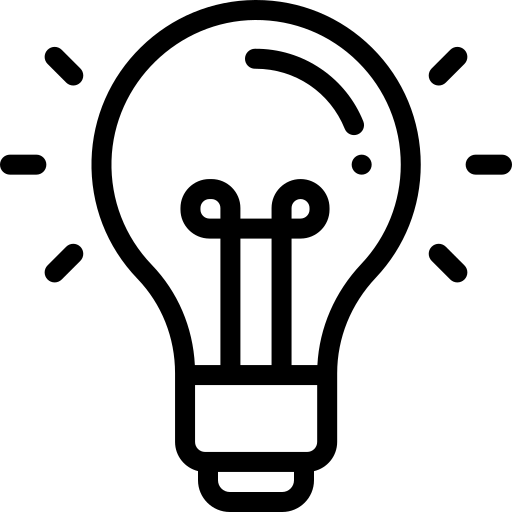
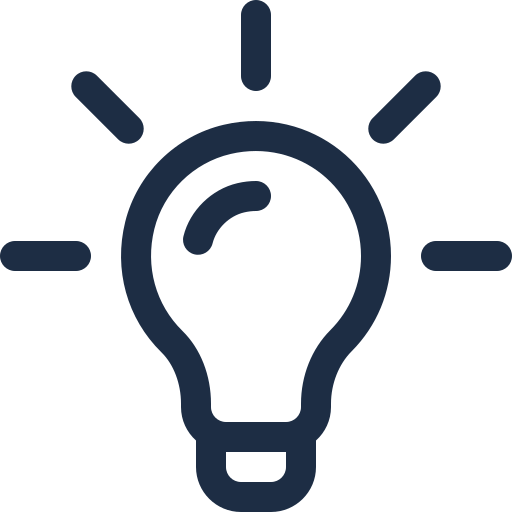
atualização

diff --git a/Dashboard/index.html b/Dashboard/index.html
@@ -15,18 +15,18 @@
     <div class="buttons1">
         <div class="buttons_up1">
             <button class="button-57" role="button"><span class="text"><a href="./Luzes/index.html"><img src="./idea.png" alt="" width="50"></span><span>Luzes</span></button>
-            <button class="button-57" role="button"><span class="text"><a href="./Portas/index.html">🚪</span><span>Portas</span></button>
+            <button class="button-57" role="button"><span class="text"><a href="./Portas/index.html"><img src="./door.png" alt="" width="50"></span><span>Portas</span></button>
         </div>
         <div class="buttons_up2">
-            <button class="button-57" role="button"><span class="text"><a href="./Eletroeletronicos/index.html">🔌</span><span>Eletroeletrônicos</span></button>
-            <button class="button-57" role="button"><span class="text"><a href="./Camera_seguranca/index.html">🎥</span><span>Câmeras</span></button>
+            <button class="button-57" role="button"><span class="text"><a href="./Eletroeletronicos/index.html"><img src="./plug.png" alt="" width="50"></span><span>Eletroeletrônicos</span></button>
+            <button class="button-57" role="button"><span class="text"><a href="./Camera_seguranca/index.html"><img src="./camera.png" alt="" width="50"></span><span>Câmeras</span></button>
         </div>
         
     </div>
 
     <div class="buttons_botton">
-        <button class="button-35" role="button"><a href="./Menu/index.html">Menu</button>
-        <button class="button-35" role="button"><a href="./comando_voz/index.html">Voice</button>
+        <button class="button-35" role="button"><a href="./Menu/index.html"><img src="./menu_icon.png" alt="" width="35"></button>
+        <button class="button-35" role="button"><a href="./comando_voz/index.html"><img src="./voice.png" alt="" width="35"></button>
         
     </div>
 </body>

diff --git a/Dashboard/style.css b/Dashboard/style.css
@@ -1,5 +1,9 @@
 body {
-    background-color: ;
+  background-image: url("./back_circle.png");
+  background-repeat: no-repeat;
+  background-position: center center;
+  margin-top: auto;
+  background-color: #748cab;
 }
 
 .nome_usuario,
@@ -7,10 +11,12 @@ body {
 .buttons_up2 {
     display: flex;
     justify-content: center;
+    font-family: Arial, Helvetica, sans-serif;
+    color: #F0EBD8;
 }
 
 .buttons1 {
-    background-color: black;
+    background-color: none;
     margin-top: 50px;
     display: flex;
     flex-direction: column;
@@ -45,7 +51,7 @@ img {
 .button-57 {
   position: relative;
   overflow: hidden;
-  border: 1px solid #18181a;
+  border: 1px solid #ffffff;
   color: #18181a;
   display: inline-block;
   font-size: 15px;
@@ -58,6 +64,8 @@ img {
   user-select: none;
   -webkit-user-select: none;
   touch-action: manipulation;
+  height: 150px;
+  border-radius: 5%;
 }
 
 .button-57 span:first-child {
@@ -112,7 +120,7 @@ img {
   border-radius: 50px;
   box-shadow: transparent 0 0 0 3px,rgba(18, 18, 18, .1) 0 6px 20px;
   box-sizing: border-box;
-  color: #121212;
+  color: #1D2D44;
   cursor: pointer;
   display: inline-flex;
   flex: 1 1 auto;
@@ -137,5 +145,5 @@ img {
 }
 
 .button-35:hover {
-  box-shadow: #121212 0 0 0 3px, transparent 0 0 0 0;
+  box-shadow: #1D2D44 0 0 0 3px, transparent 0 0 0 0;
 }
